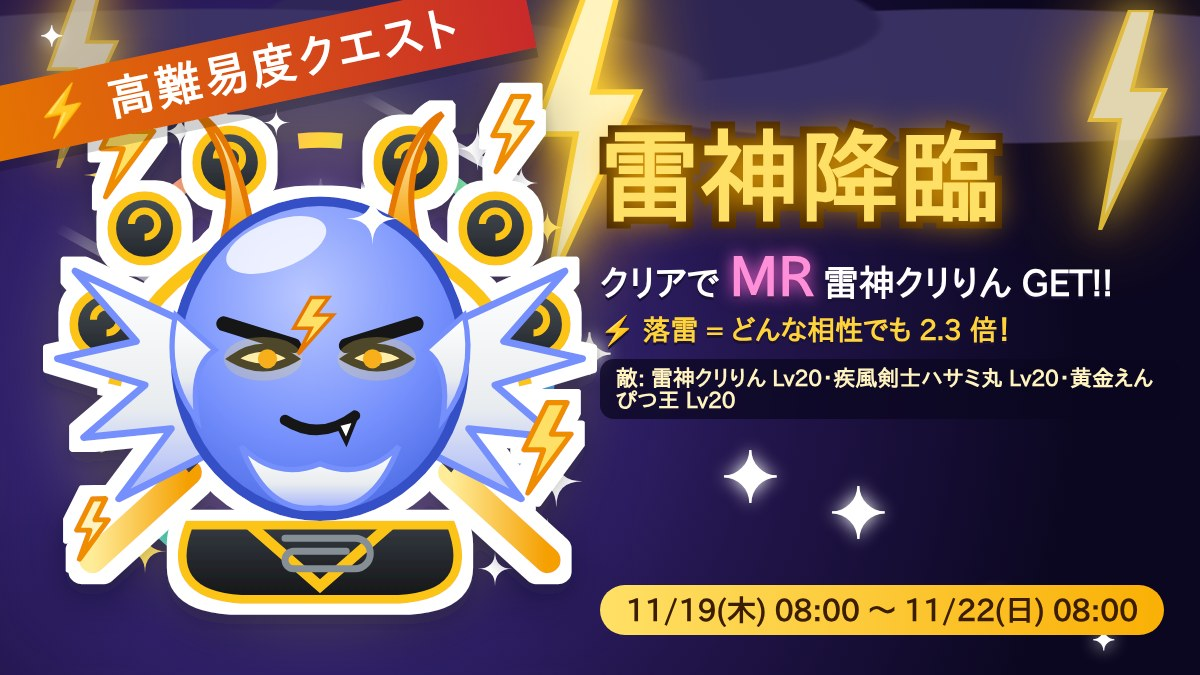
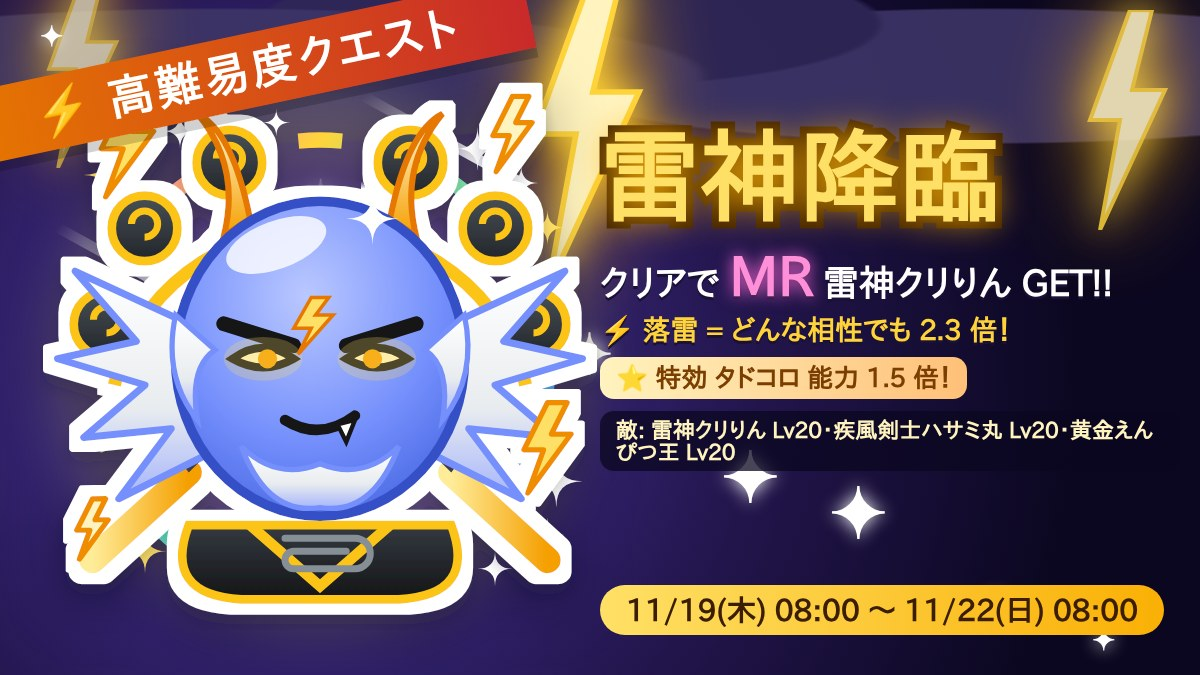
雷神降臨でタドコロを特効キャラに (HP・攻撃・防御 1.5 倍)
Claude-Session: https://claude.ai/code/session_0131LAB3VBSEDYy6z21kYLHB

Changed region(s): [[0.4933, 0.5289, 0.9558, 0.7156]]

diff --git a/cards.js b/cards.js
@@ -438,15 +438,18 @@ const QUESTS = [
     start: Date.parse('2026-11-18T08:00:00+09:00'), end: Date.parse('2026-11-25T08:00:00+09:00') },
   // 高難易度 (hard): 敵は先を読む強い CPU。能力に boost をかける (Lv18 の SSR・MR デッキで勝率 25% くらい。tools/tune_oni.js で決める)
   { id: 'raijin-2026', name: '雷神降臨', boss: '雷神クリりん', emoji: '⚡', reward: 'raijin', hard: true, boost: 1,
-    pr: 'わざ「落雷」は、どんな相性でも 2.3 倍の無属性こうげき！ 敵は先を読む強い CPU。挑戦者求む！',
+    pr: 'わざ「落雷」は、どんな相性でも 2.3 倍の無属性こうげき！ 敵は先を読む強い CPU。\n⭐ 特効: タドコロをデッキに入れると、このクエストでは HP・攻撃・防御が 1.5 倍！',
     text: '雷鳴とともに現れた魔人「雷神クリりん」。落雷はどんな相性でも 2.3 倍！ 勝てば MR「雷神クリりん」が仲間になる',
     tip: '雷神クリりんの「落雷」は相性に関係なく 2.3 倍。お供は Lv20 の疾風剣士ハサミ丸と黄金えんぴつ王。敵は先を読む強い CPU なので、ガードと交代のタイミングが勝負！',
     enemy: [['raijin', 20], ['scissors', 20], ['gold', 20]],
+    bonus: { tadokoro: 1.5 }, // 特効: このクエストでは、タドコロの HP・攻撃・防御が 1.5 倍
     start: Date.parse('2026-11-19T08:00:00+09:00'), end: Date.parse('2026-11-22T08:00:00+09:00') },
 ];
 if (Number(process.env.CB_QUEST_START)) Object.assign(QUESTS[0], { start: Number(process.env.CB_QUEST_START), end: Number(process.env.CB_QUEST_END) || QUESTS[0].end });
 // テスト用: CB_QUEST_<ID>_START / _END (ID は大文字、- は _)
 for (const q of QUESTS) { const k = 'CB_QUEST_' + q.id.toUpperCase().replace(/-/g, '_'); if (Number(process.env[k + '_START'])) q.start = Number(process.env[k + '_START']); if (Number(process.env[k + '_END'])) q.end = Number(process.env[k + '_END']); }
+// 特効: クエストの bonus にあるカードは、そのクエストの中だけ HP・攻撃・防御が上がる (UR に昇格したものも)
+const questBonus = (q, c) => { const k = !c.horse && q?.bonus?.[c.id]; return k ? { ...c, maxHp: Math.round(c.maxHp * k), atk: Math.round(c.atk * k), def: Math.round(c.def * k), bonus: k } : c; };
 // クエストの敵のカード (高難易度は boost をかける。速さはそのまま)
 const questEnemyStats = (q, boost = q.boost || 1) => q.enemy.map(([id, lv]) => { const s = statsOf(id, lv); return boost === 1 ? s : { ...s, maxHp: Math.round(s.maxHp * boost), atk: Math.round(s.atk * boost), def: Math.round(s.def * boost) }; });
 const questsNow = (now = Date.now()) => QUESTS.filter((q) => now >= q.start && now < q.end);
@@ -490,7 +493,7 @@ function install(app, ctx) {
     db.migrate('2026-11-27-card-battle-decks', BATTLE_DECK_MIGRATION);
     if (n) console.log(`[cards] 専用わざが付いていた馬 ${n} 頭を、ふつうのわざに付け直しました`); }
   const clearedOf = (uid) => new Set(db.prepare('SELECT quest_id FROM card_quests WHERE user_id = ?').all(uid).map((r) => r.quest_id));
-  const questView = (q, uid) => ({ id: q.id, name: q.name, boss: q.boss, emoji: q.emoji, text: q.text, start: q.start, end: q.end, hard: !!q.hard, tip: q.tip || '', boostPct: q.hard ? Math.round(((q.boost || 1) - 1) * 100) : 0,
+  const questView = (q, uid) => ({ id: q.id, name: q.name, boss: q.boss, emoji: q.emoji, text: q.text, start: q.start, end: q.end, hard: !!q.hard, tip: q.tip || '', bonus: Object.entries(q.bonus || {}).map(([id, k]) => ({ ...statsOf(id, 1), mult: k, skillName: SKILLS[CARDS[id].skill].name })).filter((c) => isReleased(c.id)), bonusSoon: Object.entries(q.bonus || {}).filter(([id]) => !isReleased(id)).map(([id, k]) => ({ name: CARDS[id].name, mult: k, at: RELEASES[id] })), boostPct: q.hard ? Math.round(((q.boost || 1) - 1) * 100) : 0,
     enemy: q.enemy.map(([id, lv]) => ({ ...statsOf(id, 1), lv, skillName: SKILLS[CARDS[id].skill].name, skillDesc: SKILLS[CARDS[id].skill].desc })),
     reward: { ...statsOf(q.reward, 1), skillName: SKILLS[CARDS[q.reward].skill].name, skillDesc: SKILLS[CARDS[q.reward].skill].desc },
     cleared: uid ? clearedOf(uid).has(q.id) : false });
@@ -723,7 +726,7 @@ function install(app, ctx) {
       : { id: 0, username: 'cpu', displayName: 'CPU', avatar: { kind: 'emoji', emoji: '🤖', color: '#64748b' } };
     const b = { id: crypto.randomBytes(8).toString('hex'), mode, uids, quest, oni, acts: [null, null], timer: null, deadline: 0, left: [null, null], ended: false,
       players: uids.map((u) => (u ? userView(u) : cpuView)),
-      state: { turn: 0, winner: null, sides: uids.map((u) => newSide(u ? deckStats(u) : quest ? questEnemyStats(quest) : oni ? oniDeckStats(oni) : mode === 'easy' ? easyDeck(uids[0]) : cpuDeck(uids[0]))) } };
+      state: { turn: 0, winner: null, sides: uids.map((u) => newSide(u ? deckStats(u).map((c) => questBonus(quest, c)) : quest ? questEnemyStats(quest) : oni ? oniDeckStats(oni) : mode === 'easy' ? easyDeck(uids[0]) : cpuDeck(uids[0]))) } };
     uids.forEach((u, i) => { if (u) { battleOf.set(u, b); send(u, { t: 'start', mode, quest: quest ? { id: quest.id, name: quest.name } : null, oni: oni ? { id: oni.id, name: oni.name } : null, you: i, players: b.players, state: publicState(b) }); } });
     nextTurn(b);
     return b;
@@ -888,4 +891,4 @@ function install(app, ctx) {
   };
 }
 module.exports = install;
-Object.assign(module.exports, { questEnemyStats, THUNDER_POWER, CARD_PASSIVE, PASSIVES, ONI_DECKS, oniDeckStats, REWARD, MAX_LEVEL, DUP_MAX_LEVEL, levelCost, EXCLUSIVE_SKILLS, TYPES, SKILLS, SALES, PICKUPS, pickupsNow, QUESTS, questsNow, METEOR_TURNS, EXTRA_RARITY, UR_PROMOTE, isPromoted, CARDS, CARD_LIST, statsOf, pull, resolveTurn, newSide, cpuAct, smartAct, typeMult, RARITY, PITY, RELEASES, isReleased, ratesNow, RATE_UPS });
+Object.assign(module.exports, { questBonus, questEnemyStats, THUNDER_POWER, CARD_PASSIVE, PASSIVES, ONI_DECKS, oniDeckStats, REWARD, MAX_LEVEL, DUP_MAX_LEVEL, levelCost, EXCLUSIVE_SKILLS, TYPES, SKILLS, SALES, PICKUPS, pickupsNow, QUESTS, questsNow, METEOR_TURNS, EXTRA_RARITY, UR_PROMOTE, isPromoted, CARDS, CARD_LIST, statsOf, pull, resolveTurn, newSide, cpuAct, smartAct, typeMult, RARITY, PITY, RELEASES, isReleased, ratesNow, RATE_UPS });

diff --git a/public/app.js b/public/app.js
@@ -3512,6 +3512,9 @@ async function viewQuest() {
     </section>
     <section class="card card-pad"><div class="panel-head"><h3>${esc(q.emoji)} 敵: ${esc(q.boss)}</h3><span class="text-xs muted">3 体を全部たおすとクリア</span></div>
       <div class="cb-deck">${q.enemy.map((c) => cbCard(c, { level: c.lv, small: false })).join('')}</div>
+      ${(q.bonus || []).length || (q.bonusSoon || []).length ? `<div class="cb-quest-bonus"><b>⭐ 特効キャラ</b>
+        ${(q.bonus || []).map((c) => `<div class="cb-quest-bonus-row">${CBArt.svg(c.id, c.rarity, { label: c.name })}<span><b>${esc(c.name)}</b>をデッキに入れると、このクエストでは HP・攻撃・防御が <em>${c.mult} 倍</em>！</span></div>`).join('')}
+        ${(q.bonusSoon || []).map((c) => `<div class="cb-quest-bonus-row"><span><b>${esc(c.name)}</b> (${esc(fmt(c.at))} ガチャに登場) をデッキに入れると、このクエストでは HP・攻撃・防御が <em>${c.mult} 倍</em>！</span></div>`).join('')}</div>` : ''}
       ${q.hard ? `<p class="cb-quest-hard">⚠ 高難易度: 敵は先を読む強い CPU${q.boostPct ? `・能力 ${q.boostPct > 0 ? '+' : ''}${q.boostPct}%` : ''}。Lv18 の SSR・MR デッキで勝率 25% くらいの強さです</p>` : ''}
       <p class="text-xs muted" style="margin:8px 0 0">${esc(q.tip)}</p></section>
     <section class="card card-pad">${me
@@ -3548,7 +3551,7 @@ async function viewBattle(params) {
   const fighter = (c, mineSide, key, meteor = 0) => `<div class="cb-fighter r-${esc(c.rarity)}${mineSide ? ' mine' : ''}${meteor ? ' meteor' : ''}" data-side="${mineSide ? 'me' : 'foe'}" style="--rc:${CB_RCOL[c.rarity]}">
       ${meteor ? '<span class="cb-rain" aria-hidden="true"><i></i><i></i><i></i><i></i></span>' : ''}
       <span class="cb-fpic">${CBArt.svg(c.id, c.rarity, { label: c.name, coat: c.coat })}</span>
-      <div class="cb-finfo"><b>${esc(c.name)}</b><span class="cb-meta">${esc(T[c.type]?.icon || '')}${esc(T[c.type]?.name || '')} · 速 ${c.spd}${c.cd ? ` · わざ あと${c.cd}` : ''}${c.morale ? ' · <span class="cb-morale">🔥士気UP</span>' : ''}${c.flinch === 1 ? ' · <span class="cb-flinch">😨怯み</span>' : ''}${c.poison > 0 ? ` · <span class="cb-psn">☠毒 あと${c.poison}</span>` : ''}${meteor ? ` · <span class="cb-met">🌠流星 あと${meteor}</span>` : ''}</span>${hpBar(c, key)}</div></div>`;
+      <div class="cb-finfo"><b>${esc(c.name)}</b><span class="cb-meta">${esc(T[c.type]?.icon || '')}${esc(T[c.type]?.name || '')} · 速 ${c.spd}${c.cd ? ` · わざ あと${c.cd}` : ''}${c.bonus ? ` · <span class="cb-bonus">⭐特効 ×${c.bonus}</span>` : ''}${c.morale ? ' · <span class="cb-morale">🔥士気UP</span>' : ''}${c.flinch === 1 ? ' · <span class="cb-flinch">😨怯み</span>' : ''}${c.poison > 0 ? ` · <span class="cb-psn">☠毒 あと${c.poison}</span>` : ''}${meteor ? ` · <span class="cb-met">🌠流星 あと${meteor}</span>` : ''}</span>${hpBar(c, key)}</div></div>`;
   const bench = (side, mineSide) => `<div class="cb-bench">${side.cards.map((c, i) => `<button type="button" class="cb-mini${i === side.active ? ' active' : ''}${c.hp <= 0 ? ' down' : ''}${c.poison > 0 && c.hp > 0 ? ' poisoned' : ''}" ${mineSide && picking && i !== side.active && c.hp > 0 ? `data-switch="${i}"` : 'disabled'} aria-label="${esc(c.name)} HP ${c.hp}">${CBArt.svg(c.id, 'N', { coat: c.coat })}<i style="width:${Math.max(0, (c.hp / c.maxHp) * 100)}%"></i></button>`).join('')}</div>`;
   function render() {
     if (!box() || !state) return;

diff --git a/tools/make_banners.js b/tools/make_banners.js
@@ -89,6 +89,7 @@ function hardQuestHtml(q, r) {
       <div class="stroke" style="--sw:14px;--sc:#3b1d00;font-size:100px;line-height:1.1;color:#ffe066;text-shadow:0 0 34px #fab005;white-space:nowrap">${esc(q.name)}</div>
       <div style="margin-top:18px;font-size:36px;color:#fff;text-shadow:0 3px 0 #1b1035">クリアで <span style="color:#ff8fd8;font-size:54px;text-shadow:0 0 16px #ff6bd6,0 3px 0 #1b1035">${esc(r.rarity)}</span> ${esc(r.name)} GET!!</div>
       <div style="margin-top:12px;font-size:28px;color:#ffd43b;font-weight:900;text-shadow:0 3px 0 #1b1035">⚡ 落雷 = どんな相性でも ${cards.THUNDER_POWER} 倍！</div>
+      ${Object.entries(q.bonus || {}).map(([id, k]) => `<div style="margin-top:10px;display:inline-block;padding:6px 16px;border-radius:14px;background:linear-gradient(90deg,#fff3bf,#ffc078);font-size:26px;color:#7a3e00;font-weight:900">⭐ 特効 ${esc(cards.CARDS[id].name)} 能力 ${k} 倍！</div><br>`).join('')}
       <div style="margin-top:12px;display:inline-block;padding:8px 16px;border-radius:14px;background:rgba(11,7,32,.75);font-size:22px;color:#fff3bf;font-weight:700">敵: ${q.enemy.map(([id, lv]) => `${esc(cards.CARDS[id].name)} Lv${lv}`).join('・')}</div>
     </div>
     <div class="date" style="left:600px;bottom:40px;background:linear-gradient(90deg,#ffe066,#fab005);color:#3b1d00">${esc(fmt(q.start))} 〜 ${esc(fmt(q.end))}</div>

diff --git a/public/style.css b/public/style.css
@@ -1991,3 +1991,11 @@ a.quote-embed:hover { background: var(--surface-2); border-color: var(--border-s
 .cb-quest.hard { background: linear-gradient(160deg, #1b1035, #3b2a85 55%, #f59f00 140%); }
 .cb-quest-hard { margin: 8px 0 0; padding: 8px 10px; border-radius: 10px; background: #fff4e6; color: #d9480f; font-weight: 700; font-size: .8rem; }
 .cb-questbn.hard .cb-questbn-tag { color: #ffd43b; }
+
+/* クエストの特効キャラ */
+.cb-bonus { color: #e67700; font-weight: 800; }
+.cb-quest-bonus { margin: 10px 0 0; padding: 10px 12px; border-radius: 12px; background: linear-gradient(135deg, #fff9db, #ffe8cc); color: #5c3d00; border: 2px solid #fcc419; }
+.cb-quest-bonus > b { display: block; font-size: .85rem; color: #e67700; }
+.cb-quest-bonus-row { display: flex; align-items: center; gap: 10px; margin-top: 6px; font-size: .85rem; }
+.cb-quest-bonus-row .cb-svg { width: 52px; height: 52px; flex: none; }
+.cb-quest-bonus-row em { font-style: normal; font-weight: 900; color: #d9480f; font-size: 1.05rem; }

diff --git a/tools/tune_oni.js b/tools/tune_oni.js
@@ -15,7 +15,7 @@ function winRate(deck, boost, games) {
   let w = 0;
   for (let g = 0; g < games; g++) {
     const ids = [...PLAYER_POOL].sort(() => Math.random() - 0.5).slice(0, 3);
-    const s = { turn: 0, winner: null, sides: [C.newSide(ids.map((id) => C.statsOf(id, PLAYER_LV))), C.newSide(deck.enemy ? C.questEnemyStats(deck, boost) : C.oniDeckStats(deck, boost))] };
+    const s = { turn: 0, winner: null, sides: [C.newSide(ids.map((id) => C.questBonus(deck.enemy ? deck : null, C.statsOf(id, PLAYER_LV)))), C.newSide(deck.enemy ? C.questEnemyStats(deck, boost) : C.oniDeckStats(deck, boost))] };
     while (s.winner === null) C.resolveTurn(s, [C.smartAct(s, 0, Math.random), C.smartAct(s, 1, Math.random)], Math.random);
     w += s.winner === 0 ? 1 : s.winner === -1 ? 0.5 : 0;
   }

diff --git a/public/index.html b/public/index.html
@@ -13,7 +13,7 @@
 <meta name="apple-mobile-web-app-status-bar-style" content="default">
 <link rel="icon" href="/favicon.svg" type="image/svg+xml">
 <link rel="apple-touch-icon" href="/favicon.svg">
-<link rel="stylesheet" href="/style.css?v=76">
+<link rel="stylesheet" href="/style.css?v=77">
 </head>
 <body>
 <!-- アイコン (SVG スプライト。線幅・角の丸みを統一) -->
@@ -227,6 +227,6 @@
 </div>
 
 <script src="/cards-art.js?v=10"></script>
-<script src="/app.js?v=76"></script>
+<script src="/app.js?v=77"></script>
 </body>
 </html>
